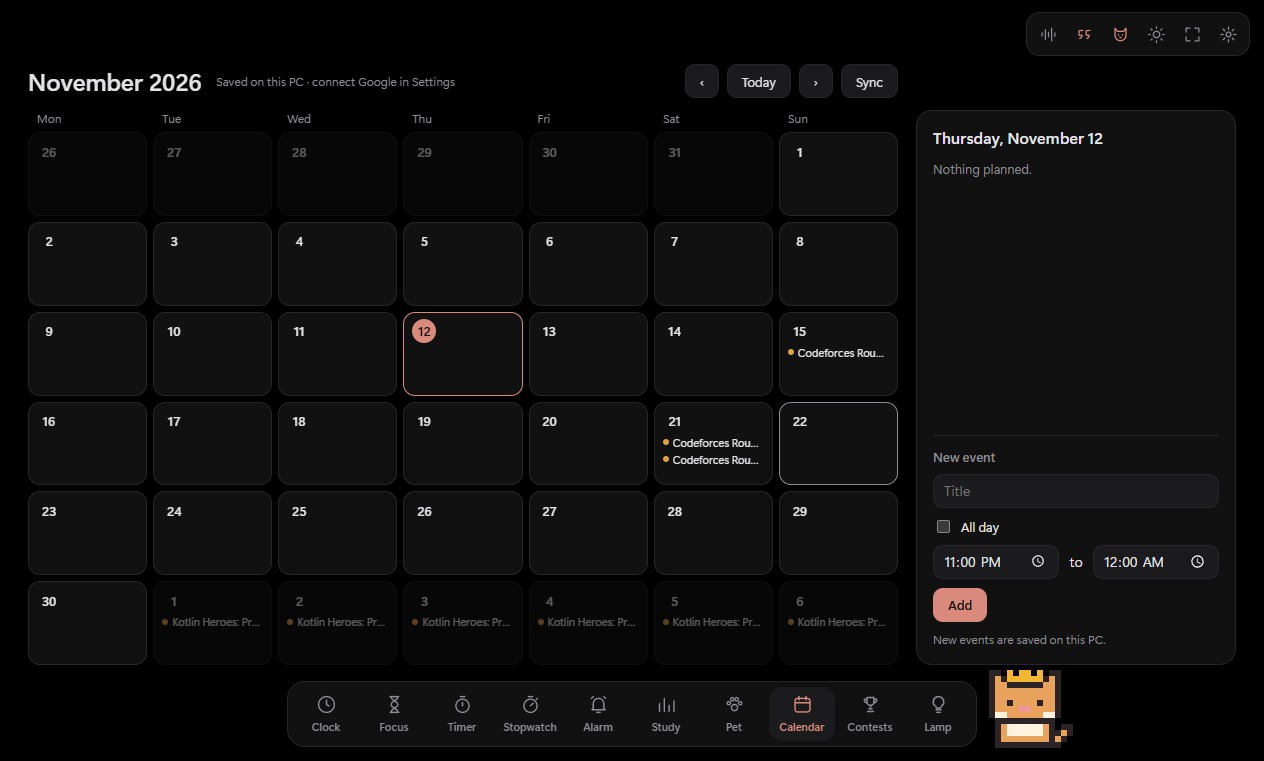
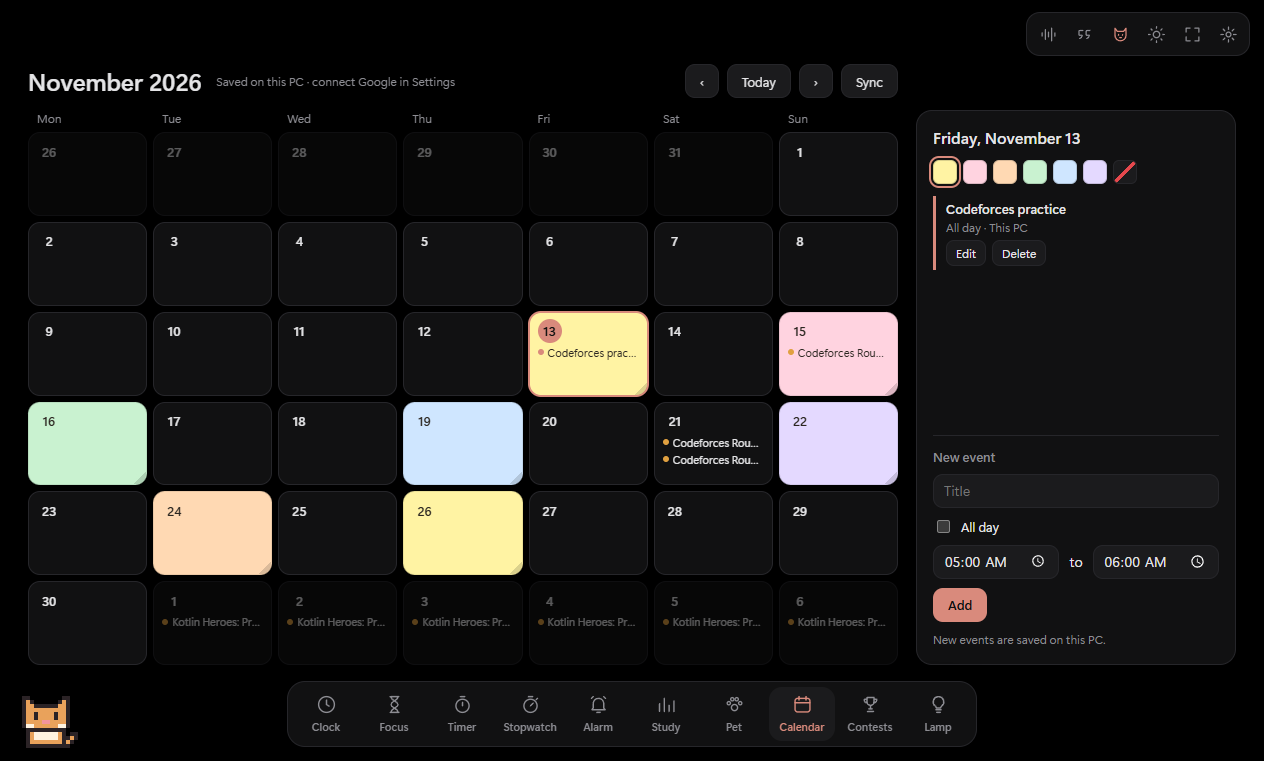
Calendar: fill days like sticky notes
Double-click a day to fill it with the default colour (again to clear), or
pick one of six pastel colours from the day panel. Filled days use dark text
so dates and events stay readable in both themes, with a folded-corner look.
Fills are saved in the local database.

diff --git a/scripts/smoke-dayfill.js b/scripts/smoke-dayfill.js
@@ -1,0 +1,55 @@
+// Calendar post-it fills:  node scripts/run-tests.js smoke-dayfill.js
+(async () => {
+  const fails = [];
+  let count = 0;
+  const wait = (ms) => new Promise((res) => setTimeout(res, ms));
+  const check = (name, ok, info) => { count++; if (!ok) fails.push(`${name} -> ${JSON.stringify(info)}`); };
+  const cellFor = (key) => $$('#cal-grid .day')[Math.round((parseYmd(key) - gridStart()) / 864e5)];
+  showView('calendar');
+  const today = ymd(new Date()), tomorrow = ymd(addDays(new Date(), 1));
+
+  // double-click fills with the default colour, a second double-click clears it
+  let cell = cellFor(today);
+  cell.click(); cellFor(today).click();
+  check('double-click fills the day', dayFills()[today] === 'yellow' && cellFor(today).classList.contains('filled'), dayFills());
+  await wait(500);
+  cellFor(today).click(); cellFor(today).click();
+  check('double-click again clears it', !dayFills()[today] && !cellFor(today).classList.contains('filled'), dayFills());
+  await wait(500);
+
+  // two single clicks far apart are not a double-click
+  cellFor(today).click(); await wait(500); cellFor(today).click();
+  check('slow clicks do not fill', !dayFills()[today], dayFills());
+  // clicks on two different days are not a double-click
+  await wait(500); cellFor(today).click(); cellFor(tomorrow).click();
+  check('clicks on different days do not fill', !dayFills()[today] && !dayFills()[tomorrow], dayFills());
+
+  // picking a colour from the panel fills the selected day
+  await wait(500); cellFor(today).click();
+  const sw = $$('#day-colors .fill-sw');
+  check('six colours plus "no fill" in the panel', sw.length === 7, sw.length);
+  sw[4].click(); // Sky
+  check('picked colour is applied', dayFills()[today] === 'sky' && cellFor(today).style.getPropertyValue('--fill') === '#cfe6ff', dayFills());
+  check('picked colour is marked in the panel', $$('#day-colors .fill-sw')[4].classList.contains('on'), null);
+  $$('#day-colors .fill-sw')[6].click();
+  check('"no fill" clears it', !dayFills()[today], dayFills());
+
+  // text stays readable on a filled day, in both themes
+  await saveEvent({ title: 'Readable event', allDay: true, start: today, end: tomorrow }, null);
+  setDayFill(today, 'yellow');
+  for (const theme of ['dark', 'light']) {
+    settings.theme = theme; applyTheme(); renderCal();
+    const c = cellFor(today), fg = getComputedStyle(c).color, bg = getComputedStyle(c).backgroundColor;
+    const lum = (s) => { const [r, g, b] = s.match(/\d+/g).map(Number).map((v) => { v /= 255; return v <= 0.03928 ? v / 12.92 : ((v + 0.055) / 1.055) ** 2.4; }); return 0.2126 * r + 0.7152 * g + 0.0722 * b; };
+    const ratio = (Math.max(lum(fg), lum(bg)) + 0.05) / (Math.min(lum(fg), lum(bg)) + 0.05);
+    check(`date and event text readable on a filled day (${theme})`, ratio >= 7, { fg, bg, ratio: ratio.toFixed(1) });
+  }
+
+  // fills are saved and survive months moving
+  moveMonth(1); moveMonth(-1);
+  check('fill still there after changing month', cellFor(today).classList.contains('filled'), null);
+  check('fill is saved', store.get('dayFills', {})[today] === 'yellow', store.get('dayFills', {}));
+  setDayFill(today, '');
+  store.set('events', []);
+  return JSON.stringify({ checks: count, failed: fails }, null, 1);
+})();

diff --git a/src/calendar.js b/src/calendar.js
@@ -68,15 +68,20 @@ function renderCal() {
       st.after(rc);
     }
   } else if (rc) rc.remove();
+  const fills = dayFills();
   $('#cal-grid').replaceChildren(...[...Array(42)].map((_, i) => {
-    const d = addDays(start, i), key = ymd(d), list = eventsOn(events, d);
-    return h('button', {
-      class: 'day' + (d.getMonth() !== m.getMonth() ? ' out' : '') + (key === today ? ' today' : '') + (key === cal.sel ? ' sel' : ''),
-      onclick: () => { cal.sel = key; resetEventForm(); renderCal(); },
+    const d = addDays(start, i), key = ymd(d), list = eventsOn(events, d), fill = DAY_COLORS.find(([id]) => id === fills[key]);
+    const cell = h('button', {
+      class: 'day' + (d.getMonth() !== m.getMonth() ? ' out' : '') + (key === today ? ' today' : '') + (key === cal.sel ? ' sel' : '') + (fill ? ' filled' : ''),
+      title: fill ? `${fill[1]} · double-click to clear` : 'Double-click to fill',
+      onclick: () => dayClick(key),
     }, h('span', { class: 'dn' }, d.getDate()),
       list.slice(0, 3).map((e) => { const c = h('span', { class: 'chip' }, e.title); c.style.setProperty('--c', e.color); return c; }),
       list.length > 3 && h('span', { class: 'more' }, `+${list.length - 3} more`));
+    if (fill) cell.style.setProperty('--fill', fill[2]);
+    return cell;
   }));
+  renderDayColors(fills[cal.sel]);
 
   const day = parseYmd(cal.sel);
   $('#day-title').textContent = day.toLocaleDateString('en', { weekday: 'long', day: 'numeric', month: 'long' });
@@ -94,6 +99,38 @@ function renderCal() {
   }));
   if (!todays.length) $('#day-list').append(h('p', { class: 'empty' }, 'Nothing planned.'));
   $('#ev-hint').textContent = cal.connected ? 'New events are saved to your Google Calendar.' : 'New events are saved on this PC.';
+}
+
+// ---------- post-it day fills (saved on this PC)
+const DAY_COLORS = [
+  ['yellow', 'Lemon', '#fff3a3'], ['pink', 'Blush', '#ffd3e0'], ['peach', 'Peach', '#ffd9b3'],
+  ['mint', 'Mint', '#c9f2d0'], ['sky', 'Sky', '#cfe6ff'], ['lilac', 'Lilac', '#e4d9ff'],
+];
+const dayFills = () => store.get('dayFills', {});
+function setDayFill(key, id) {
+  const all = dayFills();
+  if (id) all[key] = id; else delete all[key];
+  store.set('dayFills', all);
+  renderCal();
+}
+// A second click on the same day within 400 ms counts as a double-click: fill it, or clear it.
+let lastDayClick = { key: '', at: 0 };
+function dayClick(key) {
+  const now = Date.now(), dbl = lastDayClick.key === key && now - lastDayClick.at < 400;
+  lastDayClick = dbl ? { key: '', at: 0 } : { key, at: now };
+  if (cal.sel !== key) { cal.sel = key; resetEventForm(); }
+  if (dbl) setDayFill(key, dayFills()[key] ? '' : DAY_COLORS[0][0]);
+  else renderCal();
+}
+function renderDayColors(current) {
+  const box = $('#day-colors');
+  box.replaceChildren(
+    ...DAY_COLORS.map(([id, label, color]) => {
+      const b = h('button', { class: 'fill-sw' + (current === id ? ' on' : ''), title: label, 'aria-label': `Fill with ${label}`, onclick: () => setDayFill(cal.sel, id) });
+      b.style.background = color;
+      return b;
+    }),
+    h('button', { class: 'fill-sw none' + (current ? '' : ' on'), title: 'No fill', 'aria-label': 'No fill', onclick: () => setDayFill(cal.sel, '') }));
 }
 
 function resetEventForm() {

diff --git a/src/styles.css b/src/styles.css
@@ -247,6 +247,16 @@ main { position: fixed; inset: 0; }
 .day .chip { font-size: 11px; white-space: nowrap; overflow: hidden; text-overflow: ellipsis; padding-left: 10px; position: relative; flex: none; }
 .day .chip::before { content: ""; position: absolute; left: 0; top: 50%; width: 6px; height: 6px; margin-top: -3px; border-radius: 50%; background: var(--c, var(--accent)); }
 .day .more { font-size: 10px; color: var(--muted); }
+/* post-it fill: a pastel block with dark text in both themes, and a little folded corner */
+.day.filled { background: var(--fill); color: #2b2620; border-color: rgba(0, 0, 0, .08); position: relative; box-shadow: 0 2px 6px rgba(0, 0, 0, .18); }
+.day.filled::after { content: ""; position: absolute; right: 0; bottom: 0; width: 12px; height: 12px; background: linear-gradient(135deg, var(--fill) 50%, rgba(0, 0, 0, .14) 50%); border-top-left-radius: 3px; }
+.day.filled .more { color: rgba(43, 38, 32, .6); }
+.day.filled.sel { border-color: var(--accent); box-shadow: 0 0 0 1px var(--accent), 0 2px 6px rgba(0, 0, 0, .18); }
+.day.filled:hover { border-color: rgba(0, 0, 0, .3); }
+.day-colors { display: flex; gap: 6px; align-items: center; }
+.fill-sw { width: 24px; height: 24px; border-radius: 6px; border: 1px solid rgba(0, 0, 0, .15); cursor: pointer; padding: 0; }
+.fill-sw.on { box-shadow: 0 0 0 2px var(--card), 0 0 0 4px var(--accent); }
+.fill-sw.none { background: linear-gradient(135deg, transparent 45%, #e5484d 45%, #e5484d 55%, transparent 55%), var(--card2); border-color: var(--line); }
 .cal-side { background: var(--card); border: 1px solid var(--line); border-radius: 16px; padding: 16px; display: flex; flex-direction: column; gap: 12px; min-height: 0; margin-top: 46px; }
 .cal-side h2 { font-size: 16px; font-weight: 600; }
 .day-list { flex: 1; overflow-y: auto; display: flex; flex-direction: column; gap: 8px; min-height: 40px; }

diff --git a/src/core.js b/src/core.js
@@ -473,6 +473,7 @@ window.__shot = (step) => {
   for (const part of step.split(':')) {
     if (part === 'light' || part === 'dark') { settings.theme = part; applyTheme(); }
     else if (part === 'settings') openSettings();
+    else if (part === 'fills') { const t = new Date(); [['yellow', 0], ['pink', 2], ['mint', 3], ['sky', 6], ['lilac', 9], ['peach', 11], ['yellow', 13]].forEach(([c, n]) => { const all = dayFills(); all[ymd(addDays(t, n))] = c; store.set('dayFills', all); }); saveEvent({ title: 'Codeforces practice', allDay: true, start: ymd(t), end: ymd(addDays(t, 1)) }, null).then(renderCal); }
     else if (part === 'datasec') setTimeout(() => { const h3 = [...document.querySelectorAll('#sheet h3')].find((x) => x.textContent === 'Your data'); if (h3) h3.scrollIntoView(); }, 900);
     else if (part === 'sound') toggleSoundPop(true);
     else if (part === 'ring') ringAlarm({ label: 'Test alarm' });

diff --git a/scripts/run-tests.js b/scripts/run-tests.js
@@ -24,7 +24,7 @@ const report = (name, ok, out) => {
   else if (/"checks"/.test(out)) console.log(out.match(/"checks": \d+/)[0]);
 };
 
-const suites = ['smoke.js', 'smoke-quotes.js', 'smoke-edge.js', 'smoke-pet.js', 'smoke-deskpet.js', 'smoke-activity.js', 'smoke-visual.js', 'smoke-persist'];
+const suites = ['smoke.js', 'smoke-quotes.js', 'smoke-edge.js', 'smoke-pet.js', 'smoke-deskpet.js', 'smoke-activity.js', 'smoke-visual.js', 'smoke-dayfill.js', 'smoke-persist'];
 for (const test of suites) {
   if (only && test !== only) continue;
   fs.rmSync(path.join(shots, 'profile'), { recursive: true, force: true });

diff --git a/src/index.html b/src/index.html
@@ -167,6 +167,7 @@
       </div>
       <aside class="cal-side">
         <h2 id="day-title"></h2>
+        <div class="day-colors" id="day-colors"></div>
         <div class="day-list" id="day-list"></div>
         <form class="ev-form" id="ev-form">
           <h3 id="ev-form-title">New event</h3>

diff --git a/README.md b/README.md
@@ -16,7 +16,7 @@ Everything runs and is stored locally. The only things that touch the internet a
 | **Alarm** | One-off or repeating alarms. A ringing alarm freezes and blurs every monitor with **Snooze** and **Stop**, like a phone. |
 | **Study** | Subjects with a daily target you adjust with − / +, today / week / streak / level, a 14-day chart by subject, and side-by-side activity heatmaps for your study time, your GitHub contributions and your Codeforces submissions, plus a leaderboard of your best days. All on one screen. |
 | **Pet** | A pixel pet with food, energy and happiness. Studying feeds it and earns coins. Daily quests, a shop (3 pets, 12 colour palettes, 5 hats), growth stages, break reminders, a start nudge, confetti for wins. Draggable, and can live on your desktop above other windows, walking along whichever monitor it is on. |
-| **Calendar** | Month view with add, edit and delete. Local by default; two-way sync with Google Calendar once linked. |
+| **Calendar** | Month view with add, edit and delete. Double-click a day to fill it like a sticky note, or pick one of six pastel colours in the day panel; text stays readable on every colour. Local by default; two-way sync with Google Calendar once linked. |
 | **Contests** | Upcoming Codeforces rounds with division filters, add-to-calendar and a reminder 30 minutes before. |
 | **Lamp** | The whole window as one solid colour with presets, any custom colour and brightness. Made for using a second monitor as a light. |
 | **Sounds** | Nine synthesised sounds you can layer: white, pink, brown, study, rain, ocean, cabin, fireplace, binaural focus beats. Spotify now-playing and controls once linked. |
